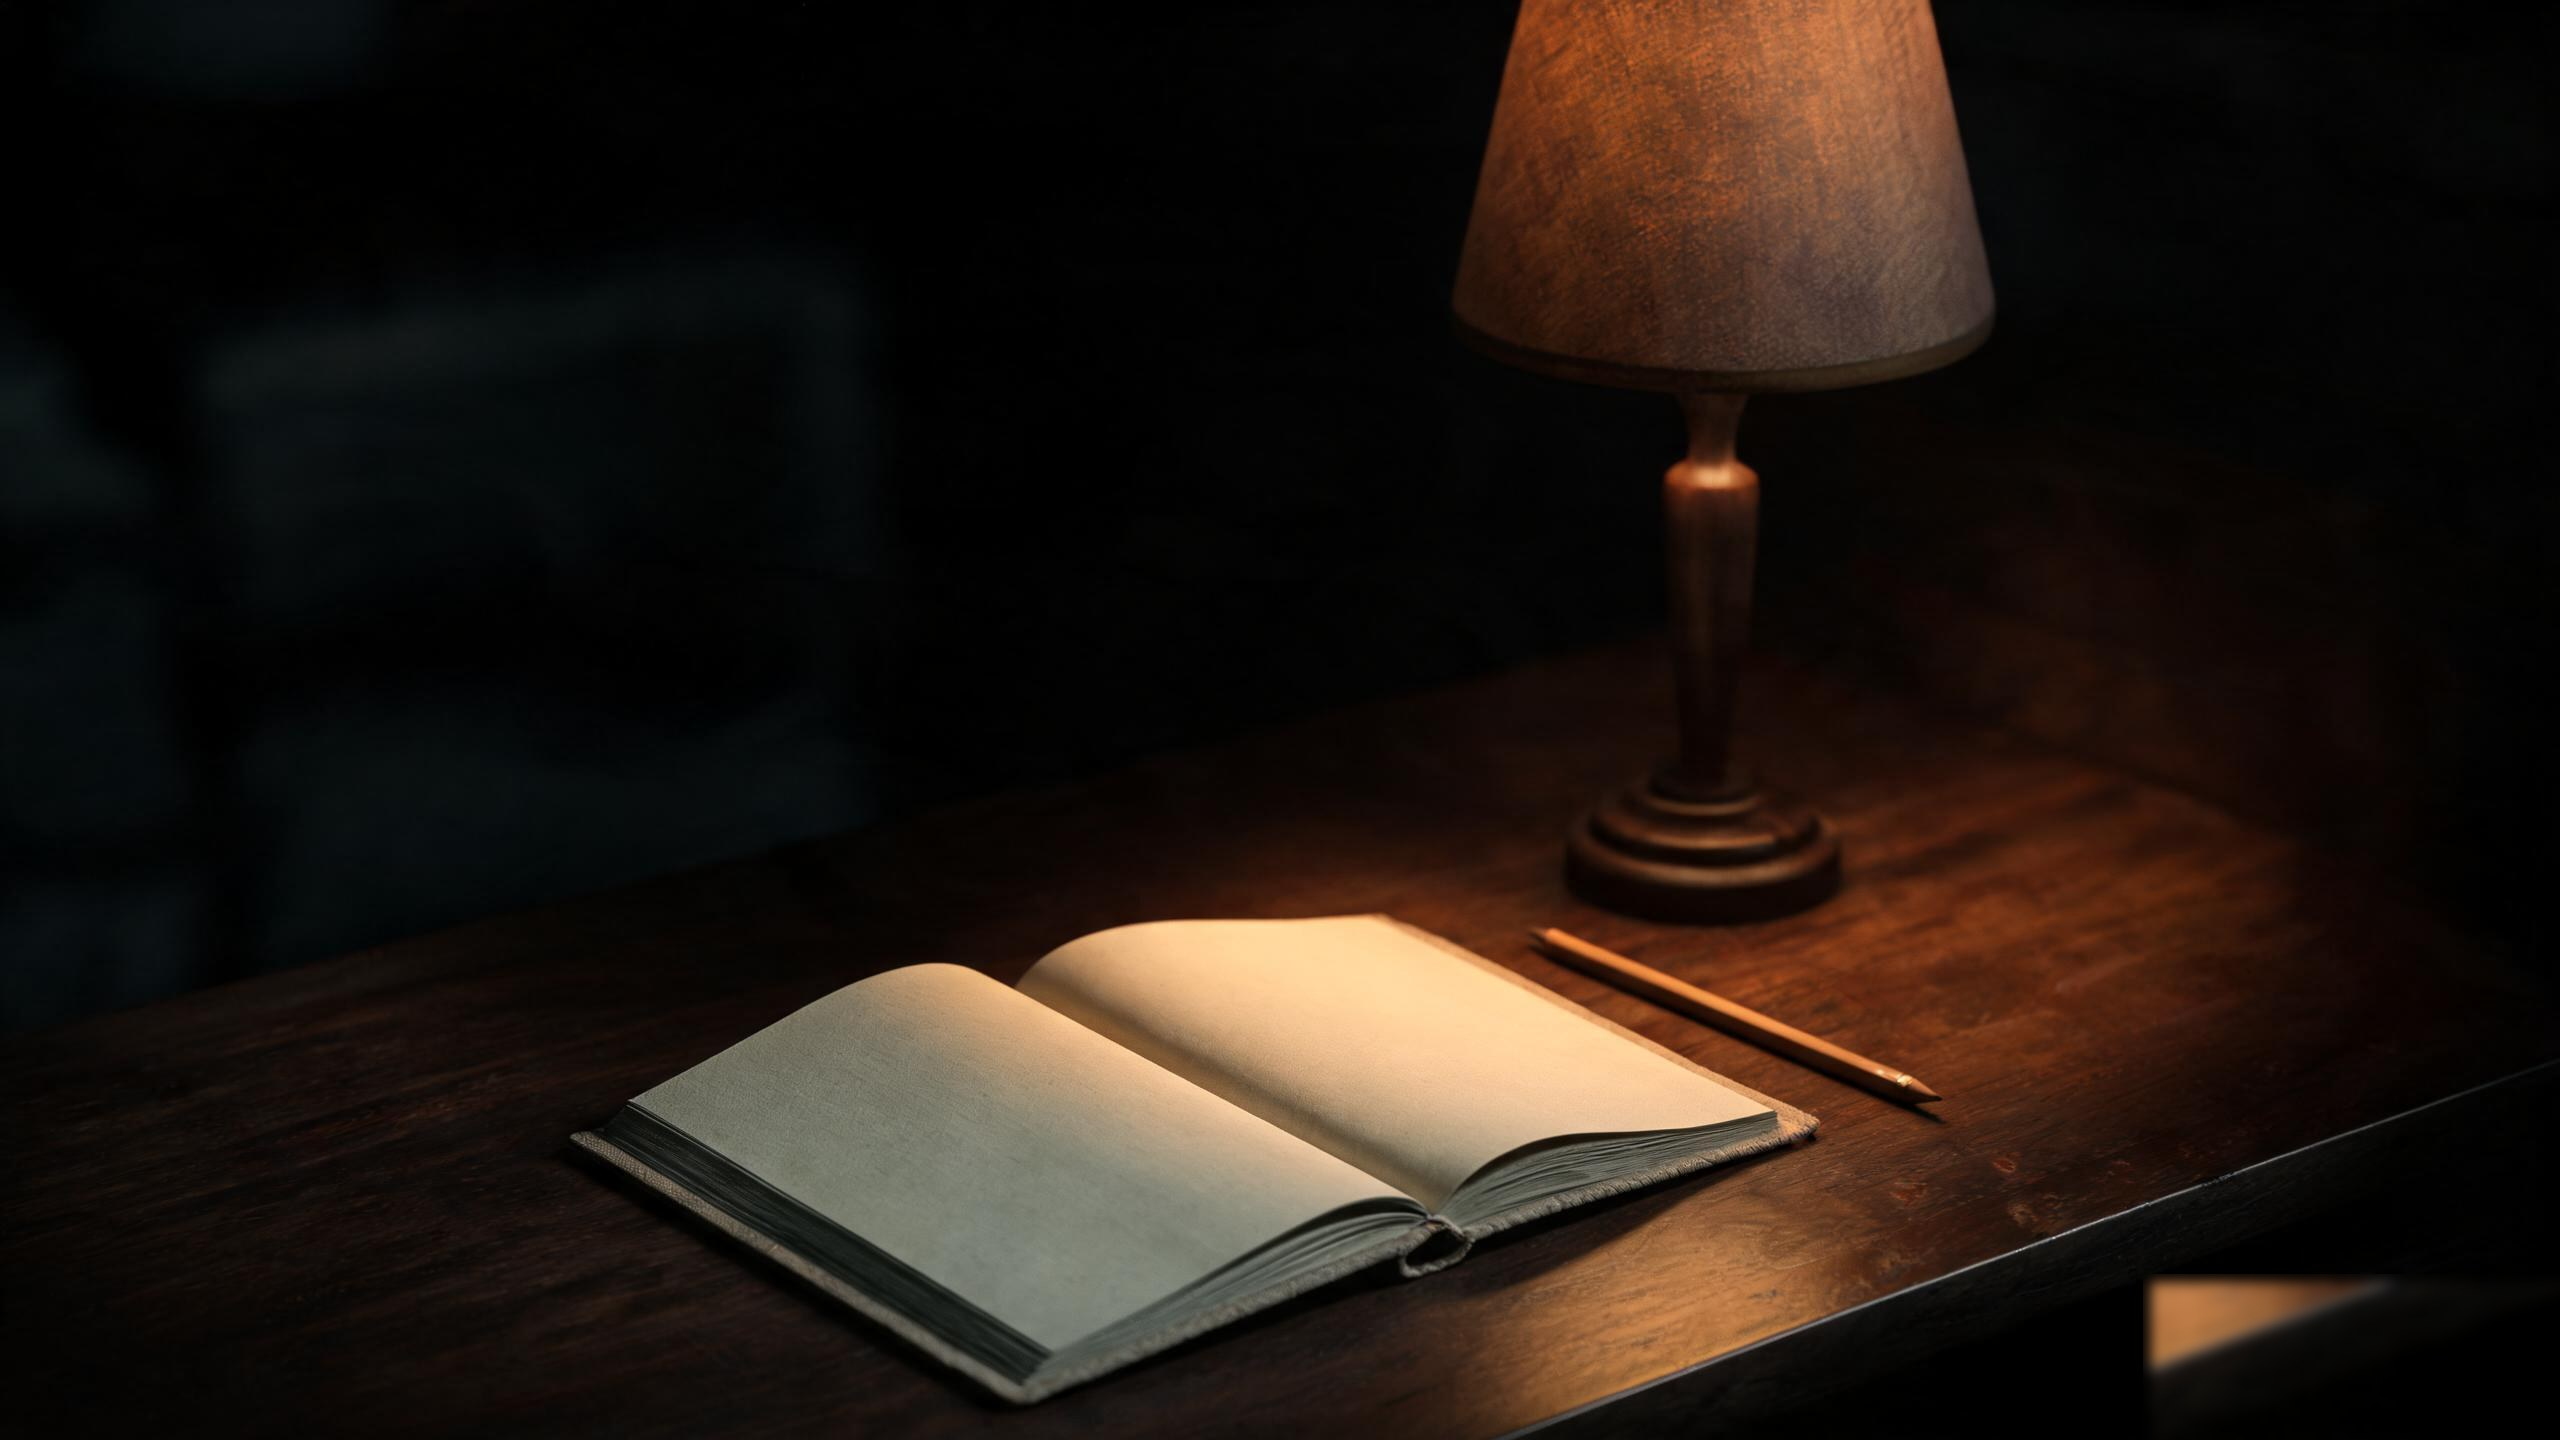
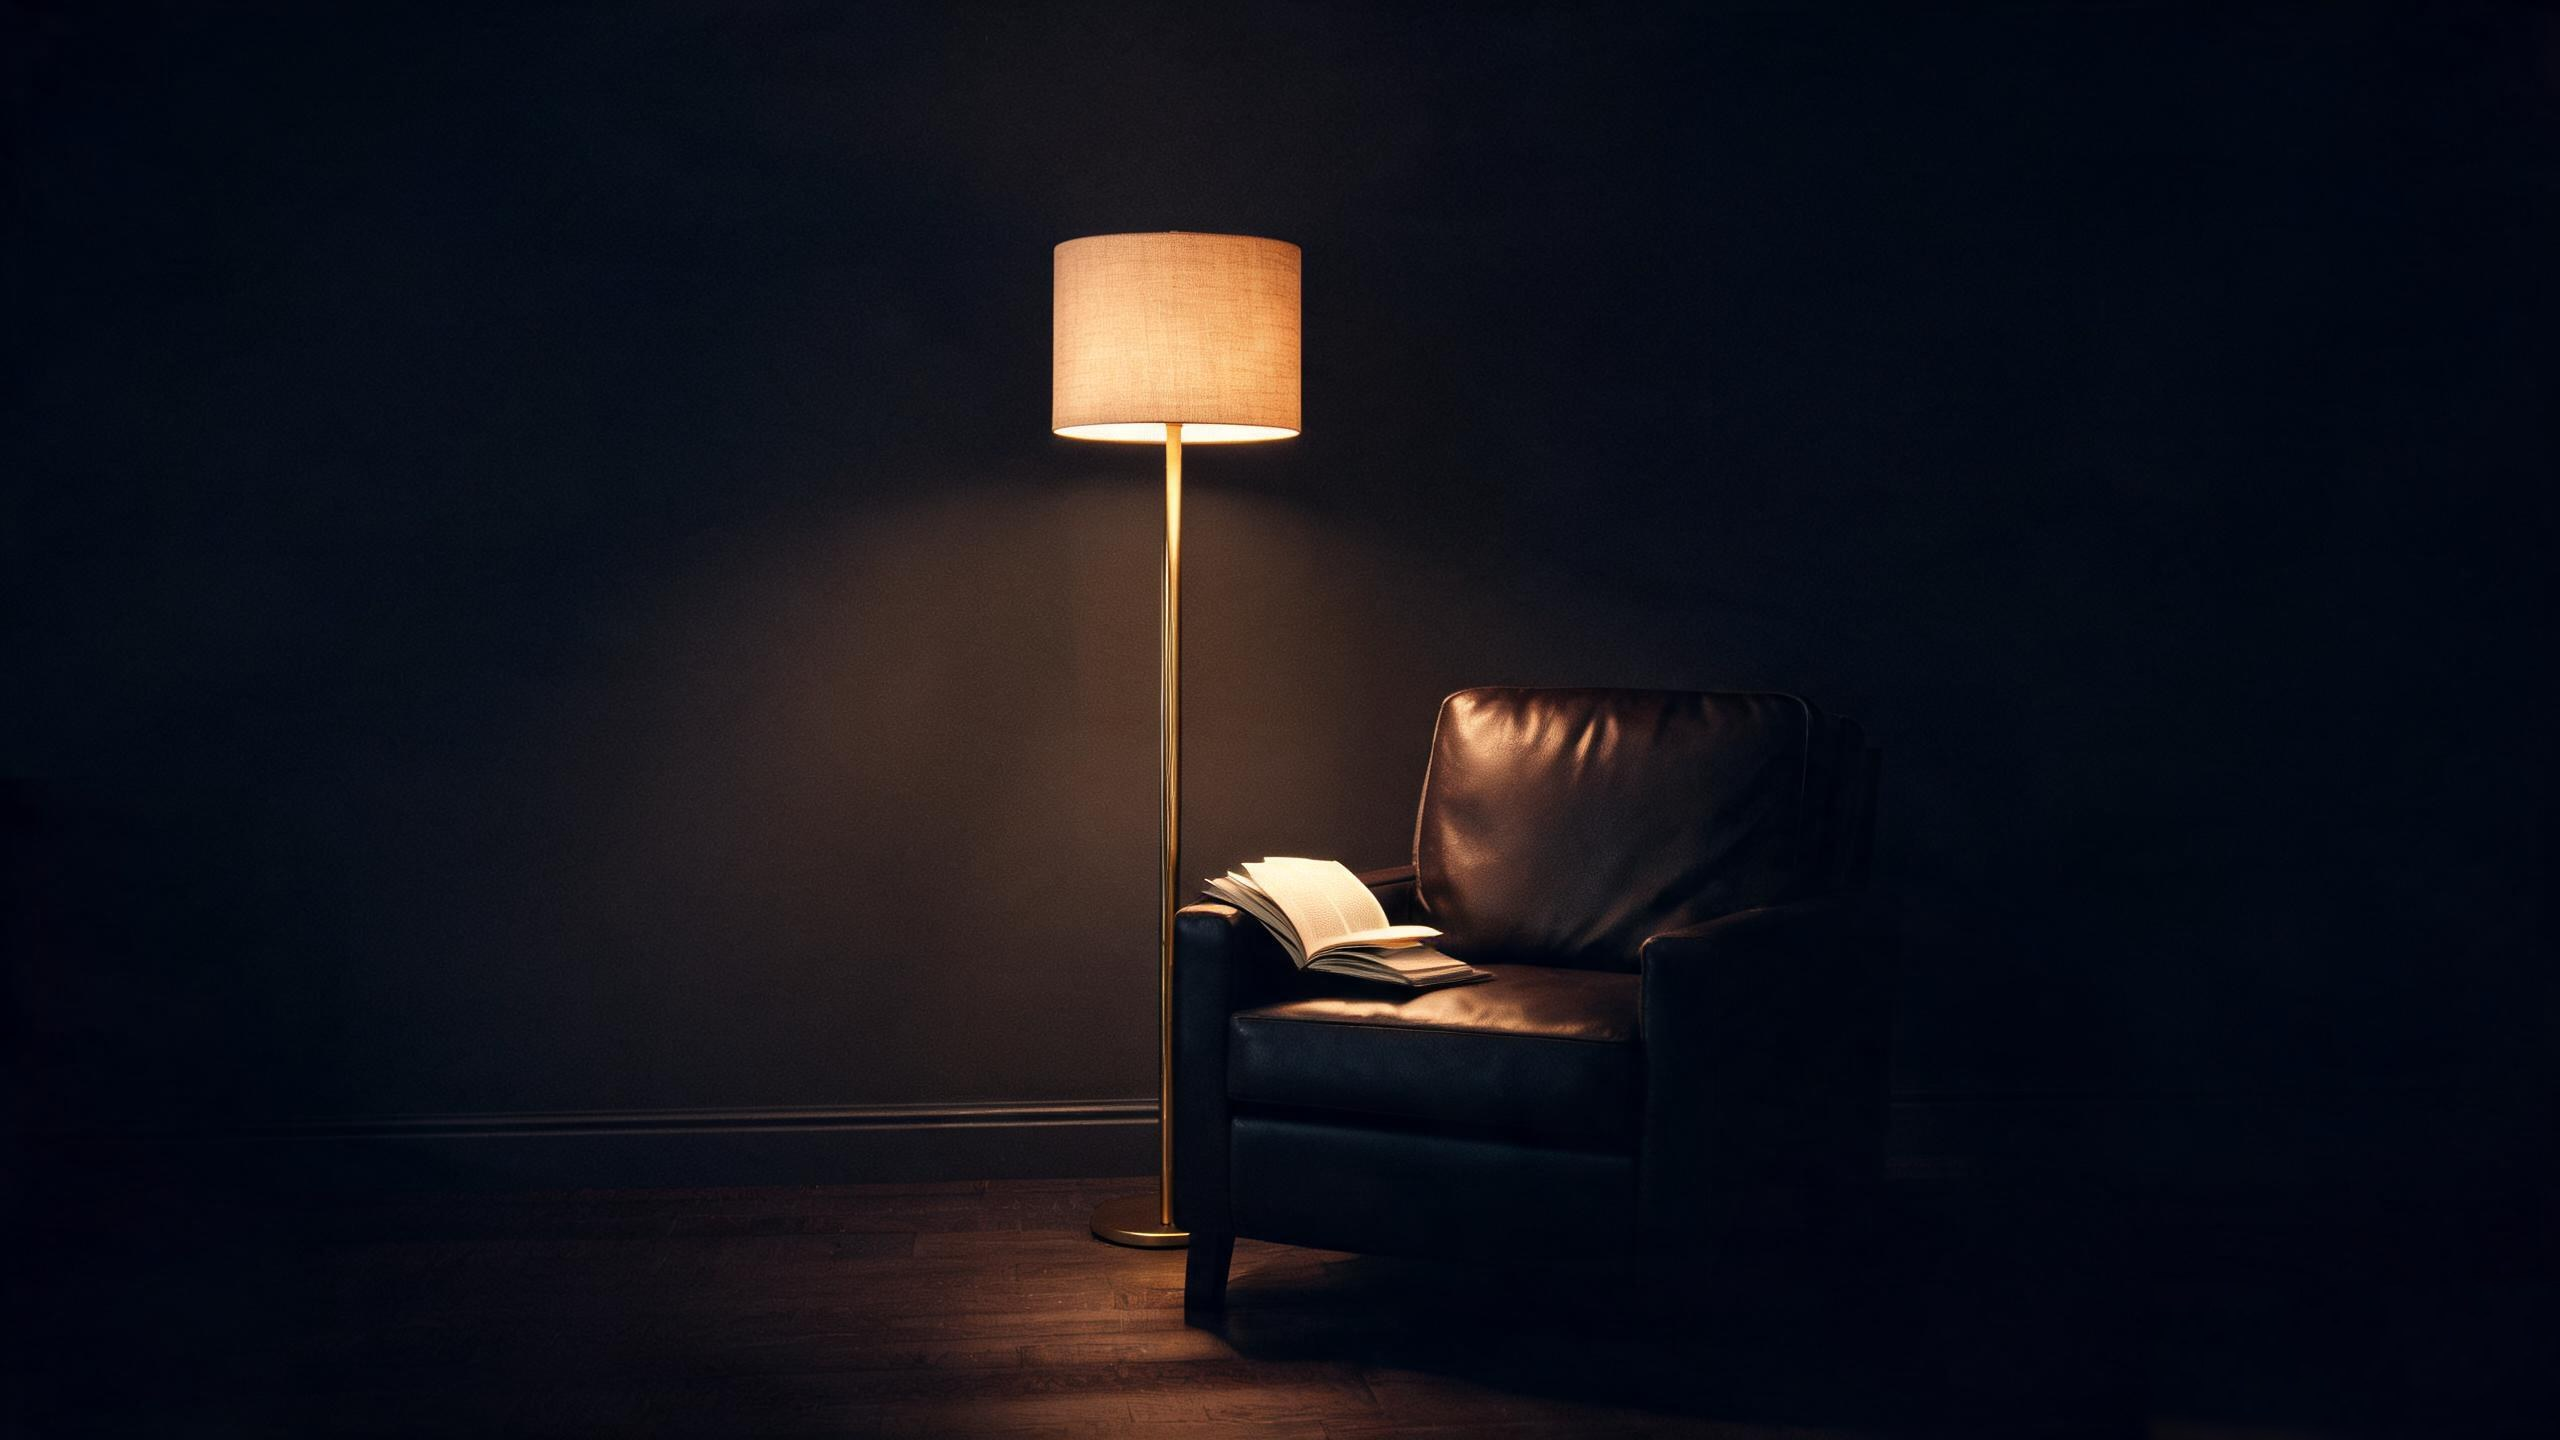
Differentiate hero images per page series; move lights toggle to hero top
- OEM: ceiling light over drawings; About: hands assembling table lamp; Blog: floor lamp reading corner
- Each inner hero now shows a distinct in-catalogue lamp type
- Lights on/off toggle repositioned to top-right of home hero, out of the stats row
- Bump assets to v=20261110c

diff --git a/layouts/index.html b/layouts/index.html
@@ -9,6 +9,16 @@
     <img class="hero-img hero-img--off" src="{{ "images/hero-interior-off.jpg" | absURL }}" alt="" width="1680" height="2139" loading="lazy" aria-hidden="true">
   </div>
   <div class="hero-scrim" aria-hidden="true"></div>
+  <button class="lights-toggle" type="button" aria-pressed="false" aria-label="Switch the lights in the cover photograph off or on">
+    <svg class="lights-toggle__icon" width="15" height="15" viewBox="0 0 24 24" fill="none" stroke="currentColor" stroke-width="1.5" stroke-linecap="round" stroke-linejoin="round" aria-hidden="true">
+      <path d="M12 4.5a5.5 5.5 0 0 1 3.3 9.9c-.8.6-.8 1.3-.8 2.1h-5c0-.8 0-1.5-.8-2.1A5.5 5.5 0 0 1 12 4.5z"/>
+      <path d="M10 19.5h4M10.8 22h2.4"/>
+      <g class="rays">
+        <path d="M12 1v1.6M4.8 3.2l1.1 1.1M19.2 3.2l-1.1 1.1"/>
+      </g>
+    </svg>
+    <span class="lights-toggle__text">Lights off</span>
+  </button>
   <div class="shell hero-inner">
     <div class="hero-copy">
       <p class="eyebrow eyebrow--light">Lighting manufacturer — Jiangmen, China · Est. {{ site.Params.founded }}</p>
@@ -28,16 +38,6 @@
         <div><dt>Models in catalogue</dt><dd>{{ $count }}</dd></div>
         <div><dt>Main markets</dt><dd>EU &amp; US</dd></div>
       </dl>
-      <button class="lights-toggle" type="button" aria-pressed="false" aria-label="Switch the lights in the cover photograph off or on">
-        <svg class="lights-toggle__icon" width="15" height="15" viewBox="0 0 24 24" fill="none" stroke="currentColor" stroke-width="1.5" stroke-linecap="round" stroke-linejoin="round" aria-hidden="true">
-          <path d="M12 4.5a5.5 5.5 0 0 1 3.3 9.9c-.8.6-.8 1.3-.8 2.1h-5c0-.8 0-1.5-.8-2.1A5.5 5.5 0 0 1 12 4.5z"/>
-          <path d="M10 19.5h4M10.8 22h2.4"/>
-          <g class="rays">
-            <path d="M12 1v1.6M4.8 3.2l1.1 1.1M19.2 3.2l-1.1 1.1"/>
-          </g>
-        </svg>
-        <span class="lights-toggle__text">Lights off</span>
-      </button>
     </div>
   </div>
 </section>

diff --git a/static/css/imperial.css b/static/css/imperial.css
@@ -412,7 +412,10 @@ ul, ol { margin: 0 0 1em; padding-left: 1.15em; }
 
 /* lights on/off toggle */
 .lights-toggle {
-  flex: 0 0 auto;
+  position: absolute;
+  top: 28px;
+  right: max(40px, calc((100vw - var(--shell)) / 2 + 40px));
+  z-index: 3;
   display: inline-flex;
   align-items: center;
   gap: 10px;
@@ -1506,7 +1509,7 @@ ul, ol { margin: 0 0 1em; padding-left: 1.15em; }
   .hero-stats div { padding: 20px 20px 24px 0; }
   .hero-stats div + div { padding-left: 20px; }
   .hero-stats div:nth-child(2n) { border-right: 0; }
-  .lights-toggle { margin-left: auto; }
+  .lights-toggle { top: 18px; right: 28px; }
 
   .manifesto { padding: 88px 0; }
   .series-grid, .series-grid--wide { grid-template-columns: 1fr; gap: 44px; }
@@ -1526,6 +1529,7 @@ ul, ol { margin: 0 0 1em; padding-left: 1.15em; }
 
 @media (max-width: 560px) {
   .shell { padding: 0 20px; }
+  .lights-toggle { top: 14px; right: 20px; }
   .product-grid, .product-grid--series { grid-template-columns: 1fr; gap: 40px; }
   .cap-grid { grid-template-columns: 1fr; }
   .cap { border-right: 0 !important; }

diff --git a/layouts/_partials/head.html b/layouts/_partials/head.html
@@ -40,7 +40,7 @@
 <link rel="preconnect" href="https://fonts.googleapis.com">
 <link rel="preconnect" href="https://fonts.gstatic.com" crossorigin>
 <link href="https://fonts.googleapis.com/css2?family=Inter+Tight:ital,wght@0,300;0,400;0,500;1,300&family=Instrument+Serif:ital@0;1&display=swap" rel="stylesheet">
-<link rel="stylesheet" href="{{ "css/imperial.css" | absURL }}?v=20261110b">
+<link rel="stylesheet" href="{{ "css/imperial.css" | absURL }}?v=20261110c">
 {{ partial "schema.html" . }}
 {{- with site.Params.cloudflareAnalyticsToken }}
 <script defer src="https://static.cloudflareinsights.com/beacon.min.js" data-cf-beacon='{"token":"{{ . }}"}'></script>

diff --git a/layouts/baseof.html b/layouts/baseof.html
@@ -10,6 +10,6 @@
   </main>
   {{ partial "footer.html" . }}
   {{ partial "whatsapp.html" . }}
-  <script src="{{ "js/site.js" | absURL }}?v=20261110b" defer></script>
+  <script src="{{ "js/site.js" | absURL }}?v=20261110c" defer></script>
 </body>
 </html>
